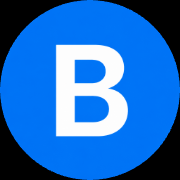
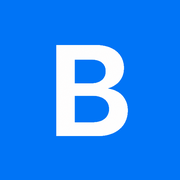
Use the B mark as a rounded square like the earlier tiles.
Keep the white B on blue and clip it at 6px instead of a circle.

diff --git a/index.html b/index.html
@@ -86,8 +86,8 @@
   </script>
 
   <!-- Favicon -->
-  <link rel="icon" type="image/png" href="/favicon.png?v=1">
-  <link rel="apple-touch-icon" sizes="180x180" href="/apple-touch-icon.png?v=3">
+  <link rel="icon" type="image/png" href="/favicon.png?v=2">
+  <link rel="apple-touch-icon" sizes="180x180" href="/apple-touch-icon.png?v=4">
   <link rel="stylesheet" href="https://cdn.jsdelivr.net/npm/@tabler/icons-webfont@latest/tabler-icons.min.css">
   <script src="https://cdn.jsdelivr.net/npm/@supabase/supabase-js@2"></script>
   <link rel="stylesheet" href="/styles.css">
@@ -229,7 +229,7 @@
 </div>
 
 <header class="desktop-topbar" id="desktopTopbar">
-  <button type="button" class="dtb-logo" onclick="goTo('landScreen','navHome')"><img class="brand-mark" src="/favicon.png?v=1" alt="" width="22" height="22">Beat<span>Swipe</span></button>
+  <button type="button" class="dtb-logo" onclick="goTo('landScreen','navHome')"><img class="brand-mark" src="/favicon.png?v=2" alt="" width="22" height="22">Beat<span>Swipe</span></button>
   <nav class="dtb-nav" aria-label="Main navigation">
     <div class="dtb-nav-indicator" id="dtbNavIndicator" aria-hidden="true"></div>
     <button type="button" class="dtb-tab active" id="dtbHome" onclick="goTo('landScreen','navHome')">Home</button>
@@ -254,7 +254,7 @@
   <div class="screen active" id="landScreen">
     <div class="page-inner page-inner--wide">
     <div class="top-bar">
-      <div class="wordmark"><img class="brand-mark" src="/favicon.png?v=1" alt="" width="22" height="22">Beat<b>Swipe</b></div>
+      <div class="wordmark"><img class="brand-mark" src="/favicon.png?v=2" alt="" width="22" height="22">Beat<b>Swipe</b></div>
       <div class="top-badge">Private Beta</div>
     </div>
     <div class="land-scroll">

diff --git a/styles.css b/styles.css
@@ -565,9 +565,10 @@
     }
     .dtb-logo span { color: var(--accent-mid); }
     .brand-mark {
-      width: 22px; height: 22px; border-radius: 50%;
+      width: 22px; height: 22px; border-radius: 6px;
       display: block; flex-shrink: 0;
       margin-right: 7px;
+      overflow: hidden;
     }
     .dtb-nav {
       justify-self: center;
